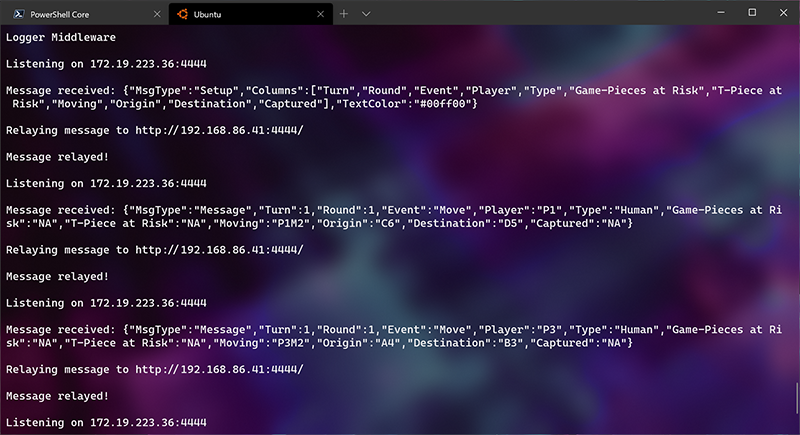
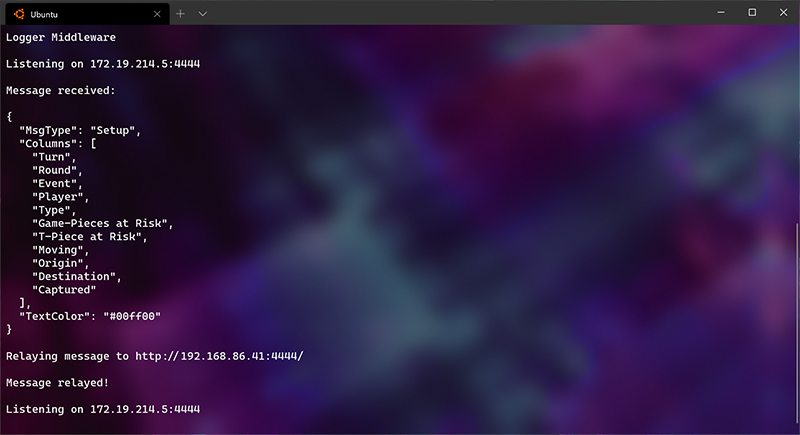
Updated README.md files. Updated screenshot in middleware README.md.

diff --git a/client/README.md b/client/README.md
@@ -7,12 +7,11 @@ There are two types of messages the client script is designed to send. The first
 
 Please see the [server](https://github.com/torynfarr/logger/tree/master/server) section of this repository for further details.
 
-The client is not intended to be built/compiled. Instead, the *Client.cs* file is meant to be added to a GameObject in a scene hierarchy in Unity.
+The client is not intended to be built/compiled. Instead, the *Client.cs* file is meant to be added to a GameObject in a scene in Unity.
 <br />
 <br />
 
 ## Usage
-<br />
 
 ### Installation and Configuration
 1) Add both the *Client.cs* and *Rest.cs* files to your Unity project.
@@ -21,15 +20,13 @@ The client is not intended to be built/compiled. Instead, the *Client.cs* file i
 
 3) Attach *Client.cs* to a new empty GameObject or to an existing GameObject.
 
-4) In the properties of the GameObject you attached the *Client.cs* script to, enter the IP address of the PC on which the server application or the Logger Middleware app is running.
+4) In the properties of the GameObject you attached the *Client.cs* script to, enter the IP address of the PC on which the server application or the middleware app is running.
 
 5) Enter the TCP port number which the server or middleware app is listening on. By default, the server application is configured to listen on TCP port 4444.
 
 6) If using a new GameObject, add a tag titled *Logger* to the GameObject.
 
 <img src="https://github.com/torynfarr/logger/blob/master/docs/images/client-gameobject-configuration.png" width="800">
-<br />
-<br />
 
 ### Sending a Setup Message
 
@@ -40,7 +37,7 @@ using logger_client;
 using Newtonsoft.Json.Linq;
 ```
 
-Add a private or public property to the class in your script with the *Client* reference type. Ideally, name the property the same name as the GameObject to which the *Client.cs* script is attached.
+Add a private or public property to the class in your script with the *Client* reference type. Ideally, give the property the same name as the GameObject to which the *Client.cs* script is attached.
 
 ```c#
 private Client logger;
@@ -79,15 +76,13 @@ This setup message provides the server with the names of up to fifteen columns i
 - Each column name must be unique.
 
 - Avoid using special characters other than spaces and hyphens.
-<br />
-<br />
 
 ### Sending a Regular Message
-Whenever an event occurs in your Unity project which you would like to log, you can use the client script to to send a message to the server application.
+Whenever an event occurs in your Unity project which you would like to log, you can use the client script to send a message to the server application.
 <br />
 
-#### Method 1: Using a jObject
-Similar to how the setup message was sent, you can create a jObject to send as a message to the server application. In the jObject, you'll add a key/value pair for each column you've configured via the setup message.
+#### Method 1: Using a JObject
+Similar to how the setup message was sent, you can create a JObject to send as a message to the server application. In the JObject, you'll add a key/value pair for each column you've configured via the setup message.
 ```c#
 if (logger.enabled)
 {
@@ -109,17 +104,15 @@ if (logger.enabled)
 ```
 <br />
 
-- Each key in the JSON data should match the name of the corresponding column exactly (case sensative).
+- Each key in the JSON data should match the name of the corresponding column exactly (case sensitive).
 
 - The value in each key/value pair should be a string data type.
 
 - The order in which each key/value pair is listed in the JSON data is irrelevant.
 
-- You can ommit keys for any number of columns to which you don't want to add data in this message. 
+- You can omit keys for any number of columns to which you don't want to add data in this message. 
 
 - Again, do not include keys named *Time* or *ID* as the server application automatically populates those for you.
-<br />
-<br />
 
 #### Method 2: Using a Custom Class
 
@@ -142,7 +135,7 @@ public class Message
 }
 ```
 
-With your custom class created, you could instantiate an instance of it, serialize and parse it into a JObject, and then send it to the server application. This second approach is likely not as performant as the first approach, however it may make things easier if your custom class peforms some extended logic to set the property values. Also, you can set some property values to defaults (such as setting *MsgType* to *Message*) via the class constructor.
+With your custom class created, you could instantiate an instance of it, serialize and parse it into a JObject, and then send it to the server application. This second approach is likely not as performant as the first approach, however it may make things easier if your custom class performs some extended logic to set the property values. Also, you can set some property values to defaults (such as setting *MsgType* to *Message*) via the class constructor.
 ```c#
 if (logger.enabled)
 {
@@ -184,6 +177,6 @@ This project (including the client, middleware, and server) are [licensed](https
 ## Additional Information
 
 - The application is intended to be used as scripts in a Unity project.
-- There is a dependancy on the *Newtonsoft.Json* package.
+- There is a dependency on the *Newtonsoft.Json* package.
 - The application requires network connectivity.
 - The middleware application is required if the client script is running on the same computer as the server application.

diff --git a/server/README.md b/server/README.md
@@ -3,14 +3,13 @@ This application runs on Windows 10 and receives http POST requests either direc
 
 The primary use-case for this application is to log whatever events you would like as they occur while you're playtesting a game or application created in Unity with more detail and flexibility than the *Debug.Log()* method included in the Unity engine and with the ability to easily export the log.
 
-It's of particular value if you're working on an AR or VR application and you're testing with your code running *on device.* In that scenario, you don't have access to the console in Unity. If your working on a HoloLens 2 app, because this server application is a UWP app, it can follow you into the experience and allow you to see the messages being logged!
+It's of particular value if you're working on an AR or VR application and you're testing with your code running *on device.* In that scenario, you don't have access to the console in Unity. If you're working on a HoloLens 2 app, because this server application is a UWP app, it can follow you into the experience and allow you to see the messages being logged!
 
 Another potential use-case would be if you have someone remote testing your game or application. The client app in Unity could be configured to point to your WAN IP. Then, if you setup a port forwarding rule in your router, the server application could receive messages over the Internet.
 <br />
 <br />
 
 ## Usage
-<br />
 
 ### Waiting for Setup Message
 
@@ -52,8 +51,6 @@ This setup message provides the server with the names of up to fifteen columns i
 - Each column name must be unique.
 
 - Avoid using special characters other than spaces and hyphens.
-<br />
-<br />
 
 Please see the [client](https://github.com/torynfarr/logger/tree/master/client) section of this repository for further details.
 <br />
@@ -80,17 +77,15 @@ Messages sent by the client application should use the following structure:
 ```
 <br />
 
-- Each key in the JSON data should match the name of the corresponding column exactly (case sensative).
+- Each key in the JSON data should match the name of the corresponding column exactly (case sensitive).
 
 - The value in each key/value pair should be a string data type.
 
 - The order in which each key/value pair is listed in the JSON data is irrelevant.
 
-- You can ommit keys for any number of columns to which you don't want to add data in this message. 
+- You can omit keys for any number of columns to which you don't want to add data in this message. 
 
 - Again, do not include keys named *Time* or *ID* as the server application automatically populates those for you.
-<br />
-<br />
 
 Please see the [client](https://github.com/torynfarr/logger/tree/master/client) section of this repository for further details.
 <br />
@@ -104,11 +99,11 @@ The menu along the left side of the server application provides several useful f
 <img src="https://github.com/torynfarr/logger/blob/master/docs/images/server-menu-buttons.png" width="800">
 
 #### Clear
-The clear button let's you clear the datagrid of all rows. **Use Caution!** Once you clear the datagrid, those messages are gone for good.
+The clear button lets you clear the datagrid of all rows. **Use Caution!** Once you clear the datagrid, those messages are gone for good.
 <br />
 
 #### Export
-The export button let's you save the contents of the datagrid as a tab delimited text file. Columns are exported in the order in which they appear in the datagrid.
+The export button lets you save the contents of the datagrid as a tab delimited text file. Columns are exported in the order in which they appear in the datagrid.
 <br />
 
 #### Restart
@@ -116,7 +111,7 @@ The restart button stops and restarts the http listener used by the server appli
 <br />
 
 #### About
-The about button displays info about the app, including a link to this Github repository.
+The about button displays info about the app, including a link to this GitHub repository.
 <br />
 <br />
 
@@ -134,8 +129,6 @@ Some ideas for potential future enhancements include:
 - A dialog prompt to confirm/export data before restarting.
 - Loop back exemption to negate the need for the middleware app when receiving messages locally.
 - Support for SSL encryption (receiving requests via https)
-<br />
-<br />
 
 ## Contributing
 Pull requests are welcome. For major changes, please open an issue first to discuss what you would like to change. This entire suite is just a tool to assist developers (including myself) working on AR/VR projects. As such, it's not my primary focus. If new features aren't being added, please feel free to fork.

diff --git a/middleware/README.md b/middleware/README.md
@@ -21,8 +21,6 @@ You can stop the application at any time by pressing *CTRL C*.
 ## Roadmap
 - If loop back exemption can be added to the server application, this middleware app will no longer be needed.
 - Support for SSL encryption (sending and receiving requests via https)
-<br />
-<br />
 
 ## Contributing
 Pull requests are welcome. For major changes, please open an issue first to discuss what you would like to change. This entire suite is just a tool to assist developers (including myself) working on AR/VR projects. As such, it's not my primary focus. If new features aren't being added, please feel free to fork.
